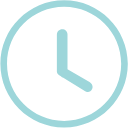
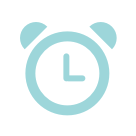
增加我的邀请码、我的人脉、修改navbar图片、预约电话及颜色
增加我的邀请码、我的人脉、修改navbar图片、预约电话及颜色

diff --git a/pages/appointment/appointment.js b/pages/appointment/appointment.js
@@ -6,20 +6,18 @@ Page({
    */
   data: {
     address:'中山路129-3号柏威年购物广场3层东区L3060层（东区L3060）',
-    phone:'400-000-000',
+    phone:'39857780',
     list:[
       {
         img:'http://llwell-wxapp.oss-cn-beijing.aliyuncs.com/Hairdressing/headPhoto1.png',
-        teacher:'Suny老师',
-        title:'店长'
+        teacher:'冷基林',
+        title:'发型师',
+        tele:'18525328308'
       }, {
         img: 'http://llwell-wxapp.oss-cn-beijing.aliyuncs.com/Hairdressing/headPhoto2.png',
-        teacher: 'David老师',
-        title: '艺术总监'
-      }, {
-        img: 'http://llwell-wxapp.oss-cn-beijing.aliyuncs.com/Hairdressing/headPhoto3.png',
-        teacher: 'Bill老师',
-        title: '资深总监'
+        teacher: '周龙',
+        title: '发型师',
+        tele:'13664289496'
       }
     ],
   },
@@ -32,7 +30,7 @@ Page({
   },
   madeCall:function(){
     wx.makePhoneCall({
-      phoneNumber: '400-000-000' // 仅为示例，并非真实的电话号码
+      phoneNumber: '39857780' // 仅为示例，并非真实的电话号码
     })
   },
   goAddress:function(){
@@ -47,6 +45,13 @@ Page({
           address: '中山广场A地铁口'
         })
       }
+    })
+  },
+  callTele:function(e){
+    console.log(e.currentTarget.dataset.tele)
+    const te = e.currentTarget.dataset.tele;
+    wx.makePhoneCall({
+      phoneNumber: te // 仅为示例，并非真实的电话号码
     })
   },
   /**

diff --git a/pages/contacts/contacts.js b/pages/contacts/contacts.js
@@ -1,0 +1,66 @@
+// pages/contacts/contacts.js
+Page({
+
+  /**
+   * 页面的初始数据
+   */
+  data: {
+
+  },
+
+  /**
+   * 生命周期函数--监听页面加载
+   */
+  onLoad: function (options) {
+
+  },
+
+  /**
+   * 生命周期函数--监听页面初次渲染完成
+   */
+  onReady: function () {
+
+  },
+
+  /**
+   * 生命周期函数--监听页面显示
+   */
+  onShow: function () {
+
+  },
+
+  /**
+   * 生命周期函数--监听页面隐藏
+   */
+  onHide: function () {
+
+  },
+
+  /**
+   * 生命周期函数--监听页面卸载
+   */
+  onUnload: function () {
+
+  },
+
+  /**
+   * 页面相关事件处理函数--监听用户下拉动作
+   */
+  onPullDownRefresh: function () {
+
+  },
+
+  /**
+   * 页面上拉触底事件的处理函数
+   */
+  onReachBottom: function () {
+
+  },
+
+  /**
+   * 用户点击右上角分享
+   */
+  onShareAppMessage: function () {
+
+  }
+})

diff --git a/app.js b/app.js
@@ -284,7 +284,7 @@ App({
 
                   // }
                   wx.setStorageSync('oi', a.openid)
-                  that.getttRole()
+                  // that.getttRole()
                   // console.log('!!!!!!!!!!!!!!!!!!!!!')
                     a.error ? e.alert("获取用户登录态失败:" + a.message) : a.isclose && n && "function" == typeof n ? n(a.closetext, !0) : wx.getUserInfo({
                       
